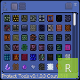
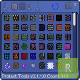
v0.1.1.0
・スロープの形状固定機能の追加
・選択反転機能の追加
・リロード機能の追加

diff --git a/TileWallUI.cs b/TileWallUI.cs
@@ -29,6 +29,9 @@ namespace ProtectTools
         internal UIImageListButton btnFilterNear;
         internal UIImageListButton btnShowTile;
         internal UIImageListButton btnShowWall;
+        internal UIImageListButton btnSlope;
+        internal UIImageListButton btnReverse;
+        internal UIImageListButton btnReload;
 
         static internal int menuIconSize = 28;
         static internal int menuMargin = 4;
@@ -134,7 +137,8 @@ namespace ProtectTools
             btnIconSize.Top.Set(3f, 0f);
             panelMain.Append(btnIconSize);
 
-            //タイル表示/非表示ボタン
+            //フィルターボタン
+            int leftPos = menuMargin;
             btnFilterNear = new UIImageListButton(
                 new List<Texture2D>() { Main.itemTexture[ItemID.AlphabetStatueF].Resize(menuIconSize), Main.itemTexture[ItemID.AlphabetStatueF].Resize(menuIconSize) },
                 new List<object>() { true, false },
@@ -144,11 +148,12 @@ namespace ProtectTools
                 btnFilterNear.NextIamge();
                 updateNeeded = true;
             };
-            btnFilterNear.Left.Set(menuMargin, 0f);
+            btnFilterNear.Left.Set(leftPos, 0f);
             btnFilterNear.Top.Set(3f, 0f);
             panelMain.Append(btnFilterNear);
 
             //タイル表示/非表示ボタン
+            leftPos += menuIconSize + menuMargin;
             btnShowTile = new UIImageListButton(
                 new List<Texture2D>() { Main.itemTexture[ItemID.DirtBlock].Resize(menuIconSize), Main.itemTexture[ItemID.DirtBlock].Resize(menuIconSize) },
                 new List<object>() { true, false },
@@ -159,11 +164,12 @@ namespace ProtectTools
                 showTiles = btnShowTile.GetValue<bool>();
                 updateNeeded = true;
             };
-            btnShowTile.Left.Set(btnFilterNear.Left.Pixels + menuIconSize + menuMargin, 0f);
+            btnShowTile.Left.Set(leftPos, 0f);
             btnShowTile.Top.Set(3f, 0f);
             panelMain.Append(btnShowTile);
 
             //壁紙表示/非表示ボタン
+            leftPos += menuIconSize + menuMargin;
             btnShowWall = new UIImageListButton(
                 new List<Texture2D>() { Main.itemTexture[ItemID.WoodWall].Resize(menuIconSize), Main.itemTexture[ItemID.WoodWall].Resize(menuIconSize) },
                 new List<object>() { true, false },
@@ -174,15 +180,60 @@ namespace ProtectTools
                 showWalls = btnShowWall.GetValue<bool>();
                 updateNeeded = true;
             };
-            btnShowWall.Left.Set(btnShowTile.Left.Pixels + menuIconSize + menuMargin, 0f);
+            btnShowWall.Left.Set(leftPos, 0f);
             btnShowWall.Top.Set(3f, 0f);
             panelMain.Append(btnShowWall);
-        }
 
-        private void showWallButtonClicked(UIMouseEvent evt, UIElement listeningElement)
-        {
-            showWalls = !showWalls;
-            updateNeeded = true;
+            //スロープボタン
+            leftPos += menuIconSize + menuMargin;
+            texture = ProtectTools.instance.GetTexture("UIElements/blocks");
+            btnSlope = new UIImageListButton(
+                new List<Texture2D>() {
+                    Main.itemTexture[ItemID.AlphabetStatueA].Resize(menuIconSize),
+                    texture.Offset(0, 0, 16, 16).Resize(menuIconSize),
+                    texture.Offset(16, 0, 16, 16).Resize(menuIconSize),
+                    texture.Offset(32, 0, 16, 16).Resize(menuIconSize),
+                    texture.Offset(48, 0, 16, 16).Resize(menuIconSize),
+                    texture.Offset(64, 0, 16, 16).Resize(menuIconSize),
+                    texture.Offset(80, 0, 16, 16).Resize(menuIconSize)
+                },
+                new List<object>() { -1, 0, 5, 1, 2, 3, 4 },
+                new List<string>() { "Slope: Auto", "Slope: Block", "Slope: Half", "Slope: TopRight", "Slope: TopLeft", "Slope: BottomRight", "Slope: BottomLeft" });
+            btnSlope.OnClick += (a, b) =>
+            {
+                btnSlope.NextIamge();
+            };
+            btnSlope.Left.Set(leftPos, 0f);
+            btnSlope.Top.Set(3f, 0f);
+            panelMain.Append(btnSlope);
+
+            //リバースボタン
+            leftPos += menuIconSize + menuMargin;
+            btnReverse = new UIImageListButton(
+                new List<Texture2D>() { Main.itemTexture[ItemID.AlphabetStatueR].Resize(menuIconSize) },
+                new List<object>() { 0 },
+                new List<string>() { "Selection reverse" });
+            btnReverse.OnClick += (a, b) =>
+            {
+                gridRight._items.ForEach(x => x.RightClick(new UIMouseEvent(x, Main.MouseScreen)));
+            };
+            btnReverse.Left.Set(leftPos, 0f);
+            btnReverse.Top.Set(3f, 0f);
+            panelMain.Append(btnReverse);
+
+            //リロードボタン
+            leftPos += (menuIconSize + menuMargin) * 2;
+            btnReload = new UIImageListButton(
+                new List<Texture2D>() { ProtectTools.instance.GetTexture("UIElements/reload").Resize(menuIconSize) },
+                new List<object>() { 0 },
+                new List<string>() { "Reload" });
+            btnReload.OnClick += (a, b) =>
+            {
+                updateNeeded = true;
+            };
+            btnReload.Left.Set(leftPos, 0f);
+            btnReload.Top.Set(3f, 0f);
+            panelMain.Append(btnReload);
         }
 
         private void Clear()

diff --git a/ProtectToolsUtils.cs b/ProtectToolsUtils.cs
@@ -13,6 +13,15 @@ namespace ProtectTools
     {
         public const int tileSize = 16;
 
+        public static Texture2D Offset(this Texture2D texture, int x, int y, int width, int height)
+        {
+            Texture2D result = new Texture2D(Main.graphics.GraphicsDevice, width, height);
+            Color[] data = new Color[height * width];
+            texture.GetData(0, new Rectangle?(new Rectangle(x, y, width, height)), data, 0, data.Length);
+            result.SetData(data);
+            return result;
+        }
+
         public static Texture2D Resize(this Texture2D texture, int width, int height)
         {
             Texture2D result = texture;
@@ -28,7 +37,7 @@ namespace ProtectTools
         {
             Texture2D result = texture;
 
-            float max = texture.Width < texture.Height ? texture.Height : texture.Width;
+            float max = Math.Max(texture.Width, texture.Height);
             float scale = size / max;
             int width = (int)(texture.Width * scale);
             int height = (int)(texture.Height * scale);
@@ -53,7 +62,6 @@ namespace ProtectTools
             List<int>[] result = { new List<int>(), new List<int>() };
             int maxX = Main.screenWidth / tileSize;
             int maxY = Main.screenHeight / tileSize;
-            //Tile[,] tiles = new Tile[maxX, maxY];
 
             Point pos = Main.sceneTilePos.ToTileCoordinates();
 
@@ -64,7 +72,6 @@ namespace ProtectTools
             {
                 for (int y = pos.Y; y < pos.Y + maxY; y++)
                 {
-                    //tiles[x - pos.X, y - pos.Y] = Main.tile[x, y];
                     var tile = Main.tile[x, y];
                     var tileItemType = TileUtils.getKillDropItemType(tile);
                     var wallItemType = WallUtils.getKillDropItemType(tile);

diff --git a/ProtectToolsGlobalTile.cs b/ProtectToolsGlobalTile.cs
@@ -25,7 +25,22 @@ namespace ProtectTools
         }
         public override bool Slope(int i, int j, int type)
         {
-            return !TileUtils.isProtected(i, j);
+            bool result = !TileUtils.isProtected(i, j);
+            int sloop = TileWallUI.instance.btnSlope.GetValue<int>();
+            if (0 <= sloop)
+            {
+                result = false;
+                if (sloop == 5)
+                {
+                    Main.tile[i, j].halfBrick(false);
+                    WorldGen.PoundTile(i, j);
+                }
+                else
+                {
+                    WorldGen.SlopeTile(i, j, sloop);
+                }
+            }
+            return result;
         }
         public override bool CreateDust(int i, int j, int type, ref int dustType)
         {
